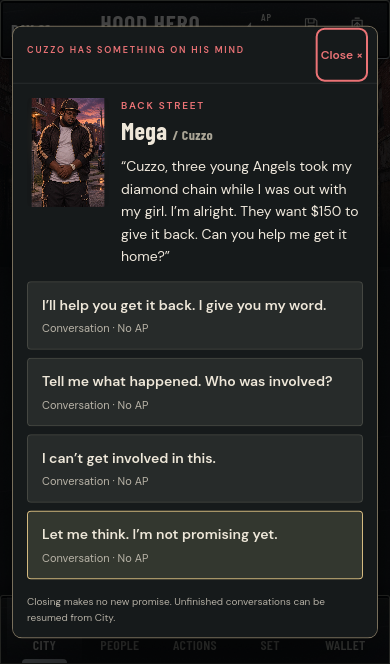
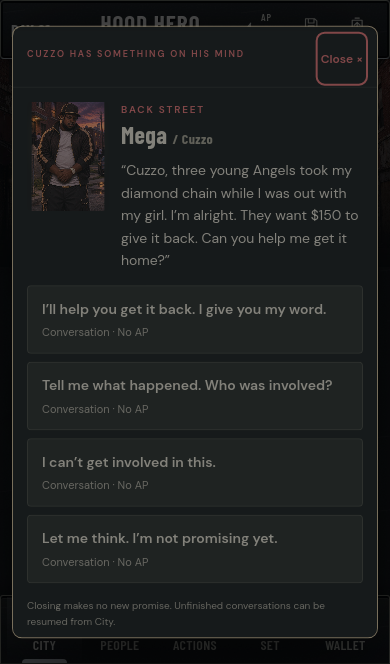
Verify final public build and record passing implementation CI

diff --git a/docs/GOAL_003_CORRECTION_REPORT.md b/docs/GOAL_003_CORRECTION_REPORT.md
@@ -49,6 +49,7 @@ The build writes `build-info.json` containing the actual checked-out commit and 
 - Production `/Hood-Hero/` browser suite: **34 passed** — 17 Chromium and 17 WebKit.
 - Final viewport-feedback adjustment: **28 additional browser checks passed** — 14 per engine under `/Hood-Hero/`, including scrolled-card result visibility, mobile regressions, and both 40-day paths.
 - TypeScript/Vite build, formatting checks, and `git diff --check`: passed.
+- [GitHub CI for the exact deployed implementation](https://github.com/kalikeefbiz/Hood-Hero/actions/runs/41378065840): **passed**, including the full root and production-path browser suites after the visible-feedback adjustment.
 
 [Recorded root browser output](validation/GOAL_003_CORRECTION_ROOT.txt) · [Production-base browser output](validation/GOAL_003_CORRECTION_PAGES.txt) · [Final viewport-feedback checks](validation/GOAL_003_CORRECTION_FEEDBACK.txt). Required browser checks cover the opening modal, blocked background clicks, focus containment, clarification/portrait change, acceptance, refusal, postponement, dismissal, queue sequencing, history without effects, City-only routing, action feedback, day transitions, 40-day non-repetition, chronological severity/faction rendering, all starting homes/affiliation themes, and 320/375/390/430px layouts with axe accessibility checks.
 
@@ -79,12 +80,12 @@ Publication uses the repository's existing public GitHub Pages playtest infrastr
 ## Verified public deployment
 
 - **Play:** https://kalikeefbiz.github.io/Hood-Hero/
-- **Deployed implementation commit:** `2ff6ef5449c5346787fb30c907ccbaaab8c6d727`.
-- **Deployment:** [existing playtest workflow, successful attempt 2](https://github.com/kalikeefbiz/Hood-Hero/actions/runs/41362061215/attempts/2). That workflow runs from its previously approved main configuration and checks out `goal-003-living-encounters`; no new main commit, workflow permission, environment rule, or merge was needed.
+- **Deployed implementation commit:** `147ef9c750ba6294848f9360db3c07c61f522ad6`.
+- **Deployment:** [existing playtest workflow, successful attempt 3](https://github.com/kalikeefbiz/Hood-Hero/actions/runs/41362061215/attempts/3). That workflow runs from its previously approved main configuration and checks out `goal-003-living-encounters`; no new main commit, workflow permission, environment rule, or merge was needed.
 - **Fingerprint:** [public build metadata](https://kalikeefbiz.github.io/Hood-Hero/build-info.json) returned the exact implementation commit and schema 3.
 - **Live gameplay verification:** Chromium and WebKit both passed the complete public-site check: opening modal/art, clarification, accepted promise auto-close, gig feedback, End Day returning to City, reload without reopening, actual gameplay buyback, returned-chain portrait, acknowledgment, and another reload remaining closed. Neither engine reported asset failures or uncaught page errors.
 - **Evidence:** [machine-readable live verification](validation/GOAL_003_CORRECTION_LIVE.json), [live Chromium modal](screenshots/goal-003-correction/live-chromium-modal.png), [live Chromium City](screenshots/goal-003-correction/live-chromium-city.png), [live WebKit modal](screenshots/goal-003-correction/live-webkit-modal.png), [live WebKit City](screenshots/goal-003-correction/live-webkit-city.png).
 
-Live checks completed at 6:24 p.m. Pacific on 1 November 2026. The follow-up evidence commit adds this deployment record and live captures only; runtime code remains the deployed implementation commit above. The public URL is the existing shared playtest site serving the unmerged feature build, not a separate production merge.
+Live checks completed at 7:04 PM Pacific on 1 November 2026. The follow-up evidence commit adds this deployment record and live captures only; runtime code remains the deployed implementation commit above. The public URL is the existing shared playtest site serving the unmerged feature build, not a separate production merge.
 
 Current Test saves from schema 2 require a new test run. Physical iPhone Safari validation remains with the creator; all browser results above are real automated browser executions, not physical-device claims.
